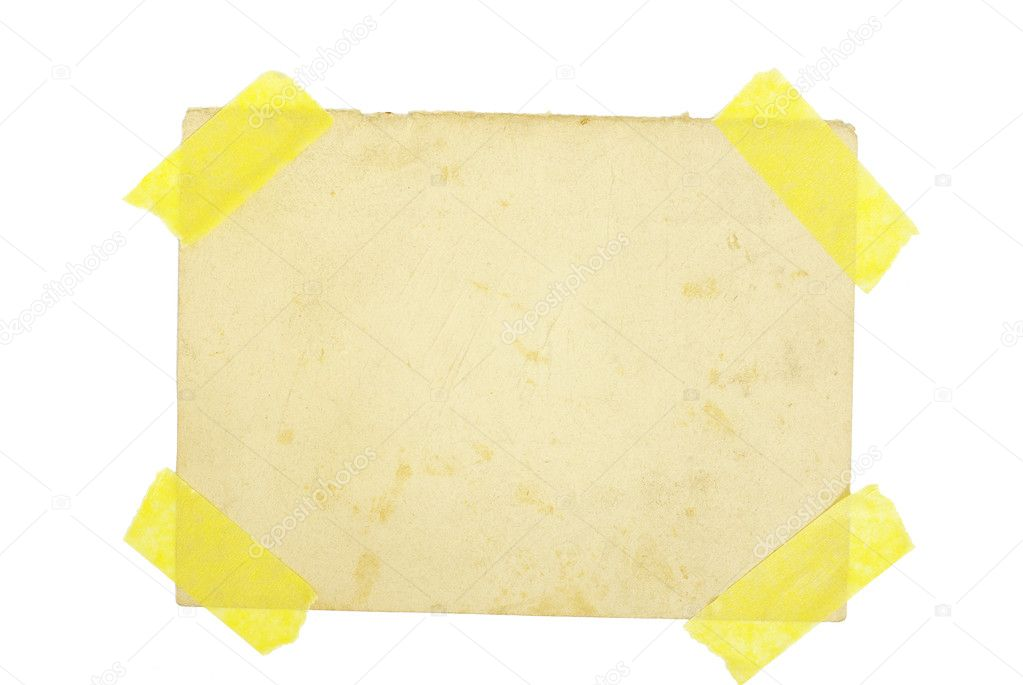
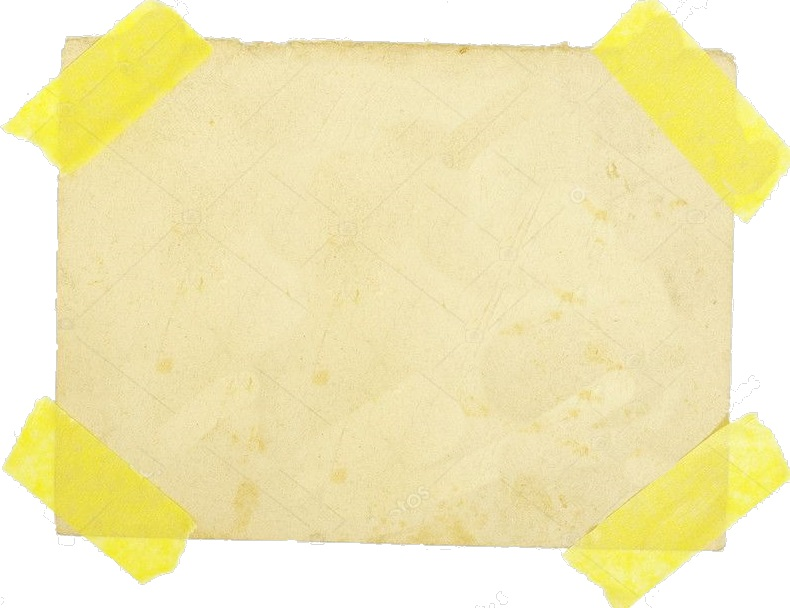
cambios en los margenes de las secciones y avance en la seccion de contacto

diff --git a/src/app/footer/footer.component.html b/src/app/footer/footer.component.html
@@ -3,24 +3,32 @@
 <div class="col-12">
   
 <!-- Footer -->
-<footer class="page-footer font-small indigo mt-4">
+<footer class="page-footer font-small indigo">
 
     <!-- Footer Links -->
     <div class="container">
   
       <!-- Grid row-->
-      <div class="row text-center d-flex justify-content-center pt-5 mb-3">
+      <div class="row text-center d-flex justify-content-center mt-3">
   
         <!-- Grid column -->
-        <div class="col-md-2 mb-3">
+        <div class="col-md-2">
           <h6 class="text-uppercase font-weight-bold">
-            <a href="#!">Sobre nosotros</a>
+            <a routerLink="ingresar">Ingresar</a>
           </h6>
         </div>
         <!-- Grid column -->
+        
+        <!-- Grid column -->
+        <div class="col-md-2">
+            <h6 class="text-uppercase font-weight-bold">
+              <a routerLink="registro">Registrarse</a>
+            </h6>
+          </div>
+          <!-- Grid column -->
   
         <!-- Grid column -->
-        <div class="col-md-2 mb-3">
+        <div class="col-md-2">
           <h6 class="text-uppercase font-weight-bold">
             <a routerLink="contacto">Contacto</a>
           </h6>
@@ -29,65 +37,24 @@
   
       </div>
       <!-- Grid row-->
-      <hr class="rgba-white-light" style="margin: 0 15%;">
+      <hr class=""><!--Thematic break, linea de separación-->
   
       <!-- Grid row-->
       <div class="row d-flex text-center justify-content-center mb-md-0 mb-4">
   
         <!-- Grid column -->
-        <div class="col-md-8 col-12 mt-5">
+        <div class="col-md-8 col-12 mt-3">
           <p style="line-height: 1.7rem">Aventúrate a completar misiones de los colonos, crea misiones y gana recompensas. Construye una red de contactos que te ayuden a generar oportunidades</p>
         </div>
         <!-- Grid column -->
   
       </div>
       <!-- Grid row-->
-      <hr class="clearfix d-md-none rgba-white-light" style="margin: 10% 15% 5%;">
-  
-      <!-- Grid row-->
-      <div class="row pb-3">
-  
-        <!-- Grid column -->
-        <div class="col-md-12">
-  
-          <div class="mb-5 flex-center">
-  
-            <!-- Facebook -->
-            <a class="fb-ic">
-              <i class="fa fa-facebook fa-lg white-text mr-md-4"> </i>
-            </a>
-            <!-- Twitter -->
-            <a class="tw-ic">
-              <i class="fa fa-twitter fa-lg white-text mr-md-4"> </i>
-            </a>
-            <!-- Google +-->
-            <a class="gplus-ic">
-              <i class="fa fa-google-plus fa-lg white-text mr-md-4"> </i>
-            </a>
-            <!--Linkedin -->
-            <a class="li-ic">
-              <i class="fa fa-linkedin fa-lg white-text mr-md-4"> </i>
-            </a>
-            <!--Instagram-->
-            <a class="ins-ic">
-              <i class="fa fa-instagram fa-lg white-text mr-md-4"> </i>
-            </a>
-            <!--Pinterest-->
-            <a class="pin-ic">
-              <i class="fa fa-pinterest fa-lg white-text"> </i>
-            </a>
-  
-          </div>
-  
-        </div>
-        <!-- Grid column -->
-  
-      </div>
-      <!-- Grid row-->
+      <hr class="clearfix rgba-white-light">
   
     </div>
     <!-- Footer Links -->
-  <div class="footer-copyright text-center py-3">
+  <div class="footer-copyright text-center mb-3">
     2018 Jony Inc
   </div>
     <!-- Copyright 

diff --git a/src/app/contacto/contacto.component.html b/src/app/contacto/contacto.component.html
@@ -1,16 +1,14 @@
-
-    <form class="form-horizontal contacto" action="/action_page.php">
+<div class="container">
+  <div class="row justify-content-center">
+    <div class="col-9 col-sm-7 contacto">
+    <form class="form-horizontal " action="/action_page.php">
       <div class="form-group">
         <label class="control-label col-sm-2 ">Correo:</label>
-        <div class="col-sm-8">
           <input type="email" class="form-control" placeholder="Ingresa correo" name="email">
-        </div>
       </div>
       <div class="form-group">
         <label class="control-label col-sm-2 ">Mensaje:</label>
-        <div class="col-sm-8">
           <textarea class="form-control" rows="5"></textarea>
-        </div>
       </div>
       <div class="form-group">
         <div class="col-sm-offset-2 col-sm-8">
@@ -18,5 +16,7 @@
         </div>
       </div>
     </form>
-  
+  </div>
+</div>
+</div>
 

diff --git a/src/index.html b/src/index.html
@@ -7,6 +7,7 @@
 
   <meta name="viewport" content="width=device-width, initial-scale=1">
   <link rel="icon" type="image/x-icon" href="assets/img/escudo_pregunta_yw.png">
+  
 <!--Bootstrap-->
   <link rel="stylesheet" href="https://stackpath.bootstrapcdn.com/bootstrap/4.1.1/css/bootstrap.min.css" integrity="sha384-WskhaSGFgHYWDcbwN70/dfYBj47jz9qbsMId/iRN3ewGhXQFZCSftd1LZCfmhktB" crossorigin="anonymous">
   <script src="https://code.jquery.com/jquery-3.3.1.slim.min.js" integrity="sha384-q8i/X+965DzO0rT7abK41JStQIAqVgRVzpbzo5smXKp4YfRvH+8abtTE1Pi6jizo" crossorigin="anonymous"></script>

diff --git a/src/app/registro/registro.component.html b/src/app/registro/registro.component.html
@@ -1,8 +1,8 @@
-<div class="container mt-5">
+<div class="container">
   <div class="row justify-content-center">
     <div class="col-10 col-sm-8">
 
-      <form class="text-light text-white mb-5 fondo_contacto">
+      <form class="text-light text-white fondo_contacto">
         <div class="form-group">
           <label>{{etiqueta1}}</label>
           <input type="text" class="form-control" name="nombre" placeholder="Juan" [(ngModel)]="nombre">

diff --git a/src/app/contacto/contacto.component.scss b/src/app/contacto/contacto.component.scss
@@ -1,4 +1,12 @@
 .contacto{
-    background-image: url(../../assets/img/piece_of_sheet.jpg);
     color: rgb(255, 0, 0);
+    font-weight: bold;
+    background-image: url(../../assets/img/old_sheet_bg.png);
+    background-size: 100% 100%;
+    background-repeat: no-repeat;
+    padding: 25px;
+}
+.container{
+    margin-top: 8%;
+    margin-bottom: 8%;
 }

diff --git a/src/app/navbar/navbar.component.html b/src/app/navbar/navbar.component.html
@@ -14,6 +14,9 @@
       <li class="nav-item active ">
         <a class="nav-link text-white" routerLink="registro">Registrarse</a>
       </li>
+      <li class="nav-item active ">
+        <a class="nav-link text-white" routerLink="contacto">Contacto</a>
+      </li>
     </ul>
   </div>
 </nav>

diff --git a/src/app/misiones/misiones.component.html b/src/app/misiones/misiones.component.html
@@ -1,4 +1,4 @@
-<div class="container">
+<div class="container mb-5 mb-sm-0">
   <div class="row justify-content-center">
     <div class="col-9 col-md-4 m-5">
       <div class="card text-center borde-image mision">

diff --git a/src/app/ingresar/ingresar.component.scss b/src/app/ingresar/ingresar.component.scss
@@ -2,5 +2,8 @@
 background-image: url(../../assets/img/wooden_shield_bg.png);
 box-shadow: 20px 20px 15px black;
 margin: 5%;
-
+}
+.container{
+    margin-top: 15%;
+    margin-bottom: 15%;
 }

diff --git a/src/app/registro/registro.component.scss b/src/app/registro/registro.component.scss
@@ -8,3 +8,7 @@ input{
     background-color: rgba(143, 63, 43, 0.658);
     border-color: rgba(27, 17, 4, 0.658);
 }
+.container{
+    margin-top: 10%;
+    margin-bottom: 10%;
+}

diff --git a/src/app/footer/footer.component.scss b/src/app/footer/footer.component.scss
@@ -4,3 +4,7 @@
     background-size: 100% 100%;*/
     background-color: rgba(222, 184, 135, 0.856);
 }
+hr{
+border-width: 2px;
+border-color: rgba(94, 62, 23, 0.425);
+}
